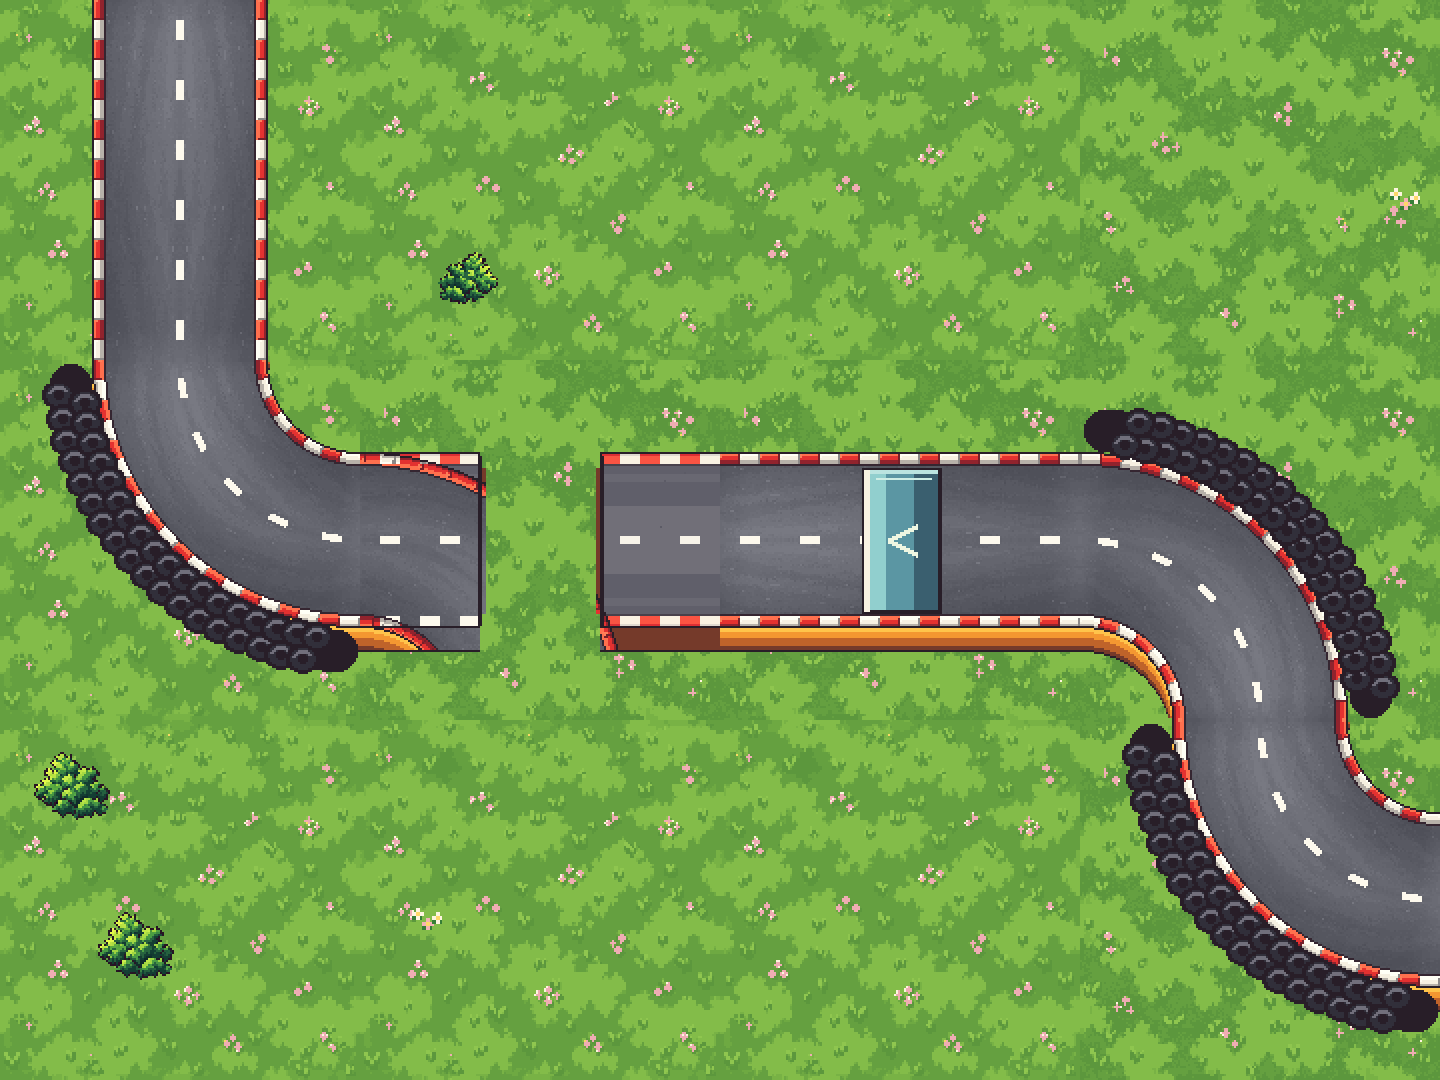
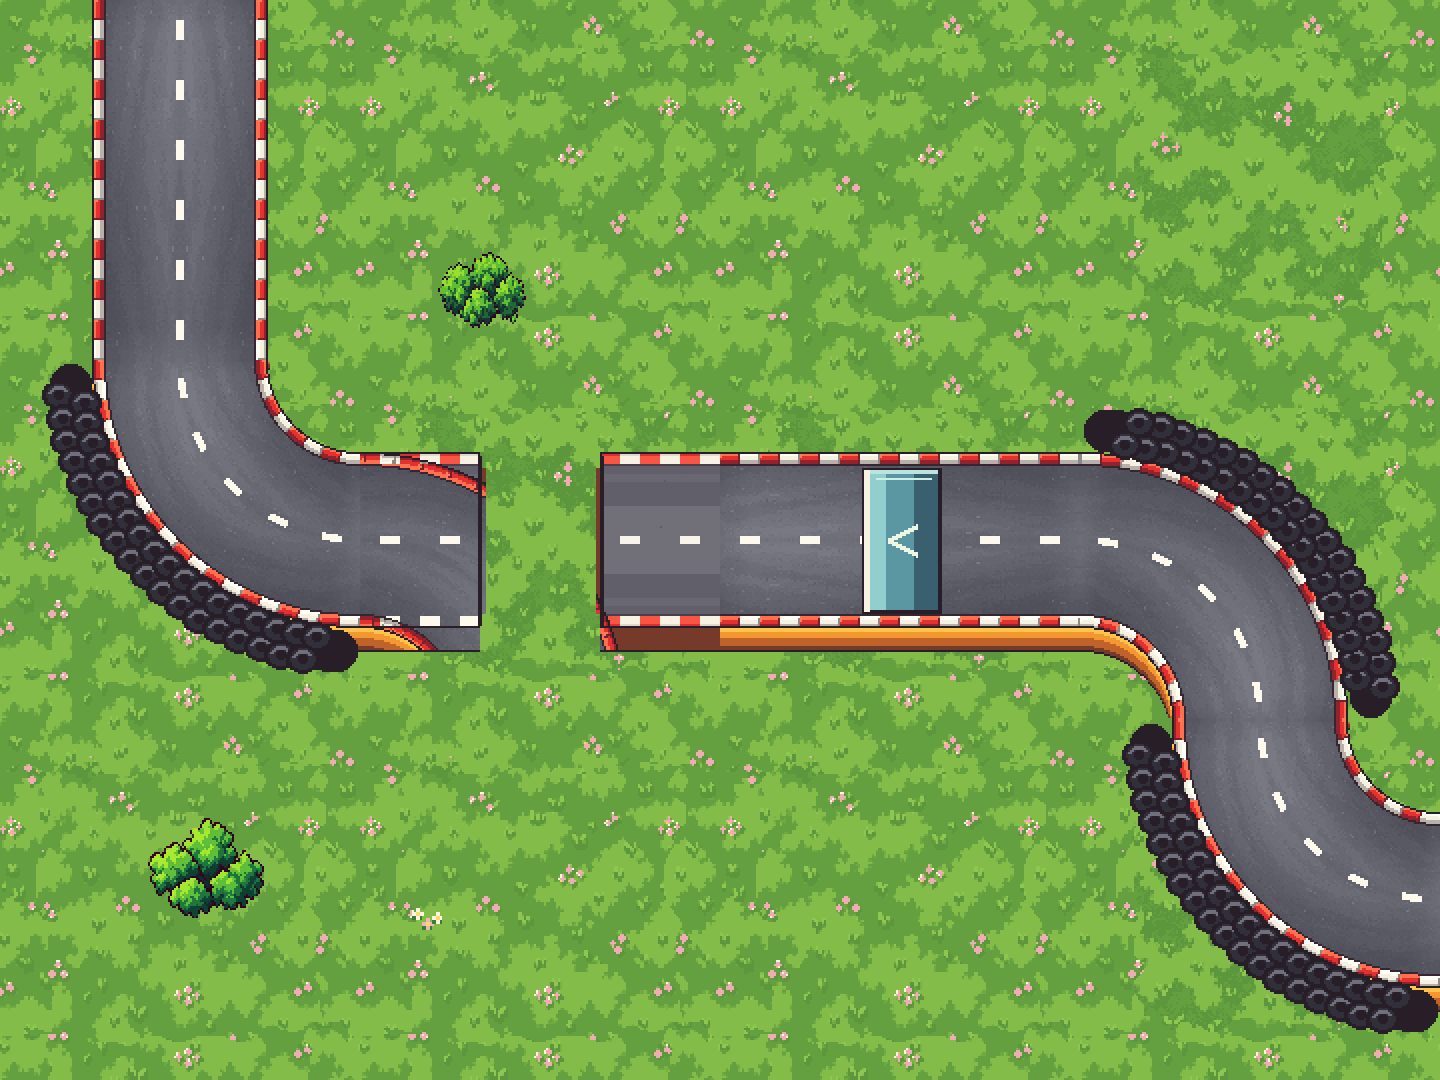
RC Prix Garden round 3: the designer's seamless grass (B and C share A's border, no lines at the seams) and bushes; decor never on other decor (flowers were over bushes); 4 bush kinds (c, d to come), the same kind kept apart; the current bushes doubled with Scale2x until the redrawn ones (round 4 no

Changed region(s): [[0.0, 0.0, 1.0, 1.0], [0.1875, 0.0, 1.0, 0.7639]]

diff --git a/tools/art/rcprix_garden_round3.py b/tools/art/rcprix_garden_round3.py
@@ -1,0 +1,109 @@
+"""Round 3: larger bush clusters and grass tiles with a shared seamless edge.
+
+Only the five named PNGs are written. The road, trees, car and other approved
+sprites are never opened for writing by this script.
+"""
+
+from pathlib import Path
+
+import numpy as np
+from PIL import Image
+from scipy.ndimage import gaussian_filter
+
+from rcprix_garden_quality_sample import grass_sample
+
+ROOT = Path(__file__).resolve().parents[2]
+OUT = ROOT / "textures/minigames/rcprix/garden"
+SRC = ROOT / "docs/mockups/rcprix_garden/quality_sample"
+SQ = 180
+
+
+def rounded_noise(shape, seed, radius):
+    rng = np.random.default_rng(seed)
+    field = gaussian_filter(rng.standard_normal(shape), radius, mode="wrap")
+    field /= max(field.std(), 1e-6)
+    return field
+
+
+def seamless_a():
+    """Move the edge discontinuities to a cross and quilt over that cross.
+
+    All source strips are full-strength grass from the approved A tile. They
+    are copied, not colour-blended. Wavy cut boundaries conceal the joins.
+    """
+    base = np.asarray(grass_sample("a"), dtype=np.uint8)
+    shifted = np.roll(base, (SQ//2, SQ//2), axis=(0,1))
+    out = shifted.copy()
+    n = rounded_noise((SQ,SQ), 711, 6)
+    # The shifted outer edges already come from A's continuous middle.
+    # Both replacement strips are sampled away from the broken centre cross.
+    for y in range(SQ):
+        wobble = int(np.clip(n[y,90]*4,-6,6))
+        lo,hi = 67+wobble,113+wobble
+        out[y,lo:hi] = shifted[y,36+(lo-67):36+(hi-67)]
+    n2 = rounded_noise((SQ,SQ), 977, 6)
+    for x in range(SQ):
+        wobble = int(np.clip(n2[90,x]*4,-6,6))
+        lo,hi = 67+wobble,113+wobble
+        out[lo:hi,x] = shifted[36+(lo-67):36+(hi-67),x]
+    # A contiguous interior patch repairs the intersection of those strips.
+    # Its irregular boundary sits far from the tile edges.
+    patch = base[43:103,43:103]
+    noise = rounded_noise((60,60), 1803, 3)
+    for py in range(60):
+        for px in range(60):
+            edge = min(px,py,59-px,59-py)
+            if edge > 5+noise[py,px]*2:
+                out[60+py,60+px] = patch[py,px]
+    return np.roll(out, (-SQ//2,-SQ//2), axis=(0,1))
+
+
+def variant_from_a(a, letter):
+    """Vary the interior only; the outer 16px are bit-for-bit A."""
+    old = np.asarray(grass_sample(letter), dtype=np.uint8)
+    yy,xx = np.indices((SQ,SQ))
+    dist = np.minimum.reduce((xx,yy,SQ-1-xx,SQ-1-yy))
+    field = rounded_noise((SQ,SQ), 2501 if letter=="b" else 3109, 4)
+    # No straight inset line: broad, irregular patch selection grows to the
+    # alternate layout through the 16–38px interior transition.
+    threshold = 28 + np.clip(field*3,-6,6)
+    choose = (dist>=16)&(dist>threshold)
+    out = a.copy()
+    out[choose] = old[choose]
+    return out
+
+
+def bush(name, size):
+    source = ("bush_round3_large_clusters_source.png" if name=="bush_a"
+              else "bush_b_round3_source.png")
+    im = Image.open(SRC/source).convert("RGBA")
+    alpha = np.asarray(im.getchannel("A"))
+    ys,xs = np.where(alpha>=128)
+    im = im.crop((int(xs.min()),int(ys.min()),int(xs.max()+1),int(ys.max()+1)))
+    w,h=size
+    im=im.resize((w-2,h-2),Image.Resampling.NEAREST)
+    a=np.asarray(im).copy()
+    a[...,3]=np.where(a[...,3]>=128,255,0).astype(np.uint8)
+    # The generated source has hotter yellow highlights than the approved
+    # tree. Bring only those top tones into the tree's actual RGB range.
+    red=a[...,0].astype(np.float32)
+    green=a[...,1].astype(np.float32)
+    a[...,0]=np.clip(np.rint(red-np.maximum(0,red-120)*.47),0,255).astype(np.uint8)
+    a[...,1]=np.clip(np.rint(green-np.maximum(0,green-185)*.23),0,255).astype(np.uint8)
+    result=Image.new("RGBA",size,(0,0,0,0))
+    result.alpha_composite(Image.fromarray(a,"RGBA"),(1,1))
+    return result
+
+
+def generate():
+    a=seamless_a()
+    for letter,arr in (("a",a),("b",variant_from_a(a,"b")),
+                       ("c",variant_from_a(a,"c"))):
+        Image.fromarray(arr,"RGBA").save(OUT/f"grass_{letter}.png")
+    bush("bush_a",(60,52)).save(OUT/"bush_a.png")
+    bush("bush_b",(46,40)).save(OUT/"bush_b.png")
+    print("updated grass_a/b/c and bush_a/b only")
+
+
+if __name__=="__main__":
+    generate()

diff --git a/tools/art/rcprix_bush_from_tree.py b/tools/art/rcprix_bush_from_tree.py
@@ -1,0 +1,74 @@
+"""RC Prix · Garden: bushes made from the approved tree's own pixels, so they have exactly its pixel
+density (the user, 2026-10-27: the designer's bushes, shrunk from big pictures, looked denser, as if
+farther from the camera). A bush's outline is a few round lobes; inside it, the tree's leaves (cut
+from the canopy's dense middle), a little darker towards the bottom right for volume; round it the
+tree's own dark outline.
+
+    <python with Pillow + numpy + scipy> tools/art/rcprix_bush_from_tree.py [out_dir]
+        -> bush_a.png (60×52), bush_b.png (46×40)   (default: textures/minigames/rcprix/garden/)"""
+import sys
+from pathlib import Path
+
+import numpy as np
+from PIL import Image
+from scipy import ndimage
+
+ROOT = Path(__file__).resolve().parents[2]
+GARDEN = ROOT / "textures" / "minigames" / "rcprix" / "garden"
+
+# each bush: its size, its lobes (centre x, y, radius, px) and where in the tree its leaves come from
+BUSHES = {
+    "bush_a": ((60, 52), [(19, 21, 14), (38, 17, 14), (46, 33, 12), (28, 35, 14), (14, 36, 9)], (40, 6)),
+    "bush_b": ((46, 40), [(15, 18, 12), (31, 15, 11), (33, 28, 10), (17, 29, 10)], (110, 10)),
+}
+
+
+def outline_colour(tree):
+    a = tree[..., 3] > 0
+    edge = a & ~ndimage.binary_erosion(a)
+    cols, n = np.unique(tree[edge][:, :3], axis=0, return_counts=True)
+    return cols[n.argmax()]
+
+
+def bush(tree, size, lobes, at):
+    w, h = size
+    yy, xx = np.mgrid[0:h, 0:w]
+    patch = tree[at[1]:at[1] + h, at[0]:at[0] + w].astype(float)
+    lum = patch[..., :3] @ [0.3, 0.59, 0.11]
+    blob = np.zeros((h, w), bool)
+    for cx, cy, r in lobes:
+        blob |= (xx - cx) ** 2 + (yy - cy) ** 2 <= r * r
+    blob &= (xx >= 2) & (yy >= 2) & (xx < w - 2) & (yy < h - 2)
+    # a leafy edge, as the tree's: near the blob's rim only the lit leaves stay (the dark gaps
+    # between them are cut away), deep inside everything stays
+    depth = ndimage.distance_transform_edt(blob)
+    lit = lum > np.percentile(lum[blob], 45)
+    leaves = blob & ((depth > 4) | lit)
+    leaves = ndimage.binary_opening(leaves, np.ones((2, 2)))          # (no single stray pixels on the edge)
+    leaves = ndimage.binary_fill_holes(leaves)
+    lab, n = ndimage.label(leaves)
+    if n > 1:                                                         # (one bush: its biggest piece)
+        sizes = ndimage.sum(leaves, lab, range(1, n + 1))
+        leaves = lab == (int(np.argmax(sizes)) + 1)
+    out = np.zeros((h, w, 4), np.uint8)
+    out[leaves] = patch[leaves].astype(np.uint8)
+    out[leaves, 3] = 255
+    # volume: the bottom-right part a step darker, as the tree's shaded side
+    shade = leaves & ((xx / w + yy / h) > 1.15)
+    out[shade, :3] = (out[shade, :3] * 0.82).astype(np.uint8)
+    ring = ndimage.binary_dilation(leaves) & ~leaves
+    out[ring, :3] = outline_colour(tree)
+    out[ring, 3] = 255
+    return Image.fromarray(out, "RGBA")
+
+
+def main():
+    out = Path(sys.argv[1]) if len(sys.argv) > 1 else GARDEN
+    tree = np.asarray(Image.open(GARDEN / "tree_top.png").convert("RGBA"))
+    for name, (size, lobes, at) in BUSHES.items():
+        bush(tree, size, lobes, at).save(out / f"{name}.png")
+        print("saved", out / f"{name}.png")
+
+
+if __name__ == "__main__":
+    main()

diff --git a/tools/art/rcprix_garden_quality_full.py b/tools/art/rcprix_garden_quality_full.py
@@ -16,7 +16,8 @@ from rcprix_templates import (CURB, FRAME, GROUND, OVERLAYS, ROAD,
                               ROAD_HALF, ROAD_HALF_WIDE, SPRITES, SQ, SIZES)
 from rcprix_garden_full import (GOLD, PLUM, RED, WHITE, frame_piece, overlay,
                                 small_sprite)
-from rcprix_garden_quality_sample import grass_sample, painted_source, polish_road
+from rcprix_garden_quality_sample import painted_source, polish_road
+from rcprix_garden_round3 import seamless_a, variant_from_a, bush as round3_bush
 
 ROOT = Path(__file__).resolve().parents[2]
 OUT = ROOT / "textures/minigames/rcprix/garden"
@@ -51,7 +52,7 @@ def tree_sprite(name,size):
 
 
 def bush_sprite(name,size):
-    return cutout_source("bush",size,flip_x=name.endswith("b"))
+    return round3_bush(name,size)
 
 
 def car_slices():
@@ -242,8 +243,10 @@ def generate():
             polished.save(OUT/f"{name}{suffix}.png")
         for name,_ in OVERLAYS:
             polished_overlay(name,half).save(OUT/f"{name}{suffix}.png")
-    for letter in "abc":
-        grass_sample(letter).save(OUT/f"grass_{letter}.png")
+    grass_a = seamless_a()
+    for letter, pixels in (("a",grass_a),("b",variant_from_a(grass_a,"b")),
+                           ("c",variant_from_a(grass_a,"c"))):
+        Image.fromarray(pixels,"RGBA").save(OUT/f"grass_{letter}.png")
     cars=car_slices()
     for i,im in enumerate(cars):
         im.save(OUT/f"car_slice_{i}.png")

diff --git a/tools/art/rcprix_templates.py b/tools/art/rcprix_templates.py
@@ -39,7 +39,7 @@ SPRITES = [   # file, label, w, h
     *[(f"car_slice_{i}", f"Car slice {i + 1}", 44, 32) for i in range(6)],
     ("crate", "Crate", 20, 20), ("lamp_post", "Lamp post", 10, 18), ("start_lamp", "Start lamp", 32, 32),
     ("spring", "Spring", 24, 14), ("balloon", "Balloon", 18, 26), ("sparkle", "Sparkle", 18, 18), ("helmet", "Helmet", 16, 14),
-    ("bush_a", "Bush A", 60, 52), ("bush_b", "Bush B", 46, 40), ("flowers_a", "Flowers A", 16, 12), ("flowers_b", "Flowers B", 16, 12),
+    ("bush_a", "Bush A", 60, 52), ("bush_b", "Bush B", 46, 40), ("bush_c", "Bush C", 54, 46), ("bush_d", "Bush D", 40, 34), ("flowers_a", "Flowers A", 16, 12), ("flowers_b", "Flowers B", 16, 12),
     ("frame_corner_tl", "Frame corner TL", FRAME, FRAME), ("frame_corner_tr", "Frame corner TR", FRAME, FRAME),
     ("frame_corner_bl", "Frame corner BL", FRAME, FRAME), ("frame_corner_br", "Frame corner BR", FRAME, FRAME),
     ("frame_top", "Frame top", SQ, FRAME), ("frame_bottom", "Frame bottom", SQ, FRAME),

diff --git a/tools/art/rcprix_preview.py b/tools/art/rcprix_preview.py
@@ -73,7 +73,7 @@ def main():
                 board.alpha_composite(rnd.choice(grass), at(x, y))
     tiles = course()
     # decor on the lawn, away from the road
-    for name, n in (("bush_a", 5), ("bush_b", 5), ("flowers_a", 10), ("flowers_b", 10)):
+    for name, n in (("bush_a", 3), ("bush_b", 3), ("bush_c", 3), ("bush_d", 3), ("flowers_a", 10), ("flowers_b", 10)):
         im = art(name)
         for _ in range(n if im else 0):
             for _try in range(40):

diff --git a/docs/mockups/rcprix_garden/HANDOFF_ROUND_3.md b/docs/mockups/rcprix_garden/HANDOFF_ROUND_3.md
@@ -1,0 +1,57 @@
+# RC Prix Garden — round 3 handoff
+
+This round changes **only** `grass_a.png`, `grass_b.png`, `grass_c.png`,
+`bush_a.png` and `bush_b.png` in `textures/minigames/rcprix/garden/`.
+The approved trees, flowers, car, road and overlays are untouched.
+
+## Bushes
+
+`bush_a` is 60×52 and `bush_b` is 46×40. Each is composed of a few broad
+leaf clusters with the tree's dark outline, layered greens and top-left light.
+Both were generated with the built-in imagegen tool using `tree_top.png` as the
+style and pixel-scale reference, then fitted with nearest-neighbour sampling
+and binary alpha. The final 3× comparison is `round3_bush_tree_3x.png`.
+
+Imagegen source files: `quality_sample/bush_round3_large_clusters_source.png`
+and `quality_sample/bush_b_round3_source.png`.
+
+Final prompts:
+
+> **Bush A:** Edit the approved tree sprite into one standalone transparent
+> low-resolution bush made of exactly four or five large separated leaf
+> clusters. Preserve the tree's pixel scale, stepped cluster shapes,
+> yellow-green highlights, deep green layers, dark plum outline and top-left
+> lighting. Fit a 60×52 sprite; no tiny leaves, ground, shadow or text.
+
+> **Bush B:** Use the same approved tree style and actual apparent pixel size.
+> Draw a distinct, lower, wider transparent bush made of three or four broad
+> leaf clusters for a 46×40 sprite. Preserve the same palette, lighting and
+> outline; no dense miniature leaves, ground, shadow or text.
+
+## Grass seams
+
+`tools/art/rcprix_garden_round3.py` shifts the approved grass A by half a tile,
+replaces the resulting centre cross with full-strength copied grass texture,
+then shifts it back. This joins its edges without a smoothed perimeter strip.
+B and C keep a **bit-for-bit identical 16 px border** from A, while their
+interiors retain separate patch layouts. The interior transition uses an
+irregular patch boundary so it does not form a second straight line.
+`round3_grass_seam_board.png` shows a 3×3 A/B/C mixture without road cover.
+
+The A/B/C opposite edge columns and rows are not identical copies; their
+patterns continue across the edge. Measured green-channel edge variation on A
+is 13.9 versus 14.8 in the interior.
+
+## Rebuild and review
+
+```sh
+./.venv/bin/python3 tools/art/rcprix_garden_round3.py
+./.venv/bin/python3 tools/art/check_rcprix_art.py
+./.venv/bin/python3 tools/art/rcprix_preview.py
+./.venv/bin/python3 tools/art/rcprix_preview.py --wide
+```
+
+Checker result: **76/76 files present, 0 problems**. Review
+`course_preview.png`, `course_preview_2x.png`, `course_preview_wide.png` and
+`course_preview_wide_2x.png`. The full quality generator now calls the same
+round-3 bush and grass functions so a future rebuild preserves these changes.

diff --git a/docs/mockups/rcprix_garden/NOTES_ROUND_4.md b/docs/mockups/rcprix_garden/NOTES_ROUND_4.md
@@ -1,0 +1,38 @@
+# RC Prix · Garden: notes for round 4 (bushes)
+
+Round 3's grass is approved: the seams are gone. This round is **only the bushes**.
+
+## The problem
+
+The bushes still look denser than the trees, as if they were farther from the camera. We measured
+why: each bush was painted as a big picture and shrunk 20–25 times, while the tree was shrunk only
+about 8 times. So every leaf and detail in a bush is 2.5–3 times smaller than in the tree.
+
+To show the look we want, the game currently doubles your bushes. On the phone that matches the
+trees, but the bushes come out too big. We want **that density at a normal bush size**.
+
+## What to draw
+
+- **Leaves the same pixel size as the tree's.** A bush is 2–4 leaf clusters, each about the size
+  of one of the tree's leaf clusters (about 8–12 px across), with the same shapes, palette, light
+  from the top left and dark outline.
+- **Never shrink a whole picture down.** If you start from a generated picture, scale it by the
+  same factor as the tree (about 8 source px per game px), or draw the clusters directly at size.
+- **Four different bushes** instead of two, so the same bush doesn't show twice on screen. Make
+  them clearly different in shape and size: round, wide and low, small, tall-ish.
+
+| File | Size |
+|---|---|
+| `bush_a.png` | 60×52 |
+| `bush_b.png` | 46×40 |
+| `bush_c.png` | 54×46 (new) |
+| `bush_d.png` | 40×34 (new) |
+
+The boxes are in `templates/4_sprites.png`. The game keeps each bush well apart from another of
+the same kind.
+
+## Test before handing over
+
+1. A picture of all four bushes next to the tree at 3×. The leaves must look the same size.
+2. `python3 tools/art/check_rcprix_art.py`: 78/78 files, 0 problems.
+3. `python3 tools/art/rcprix_preview.py`.
